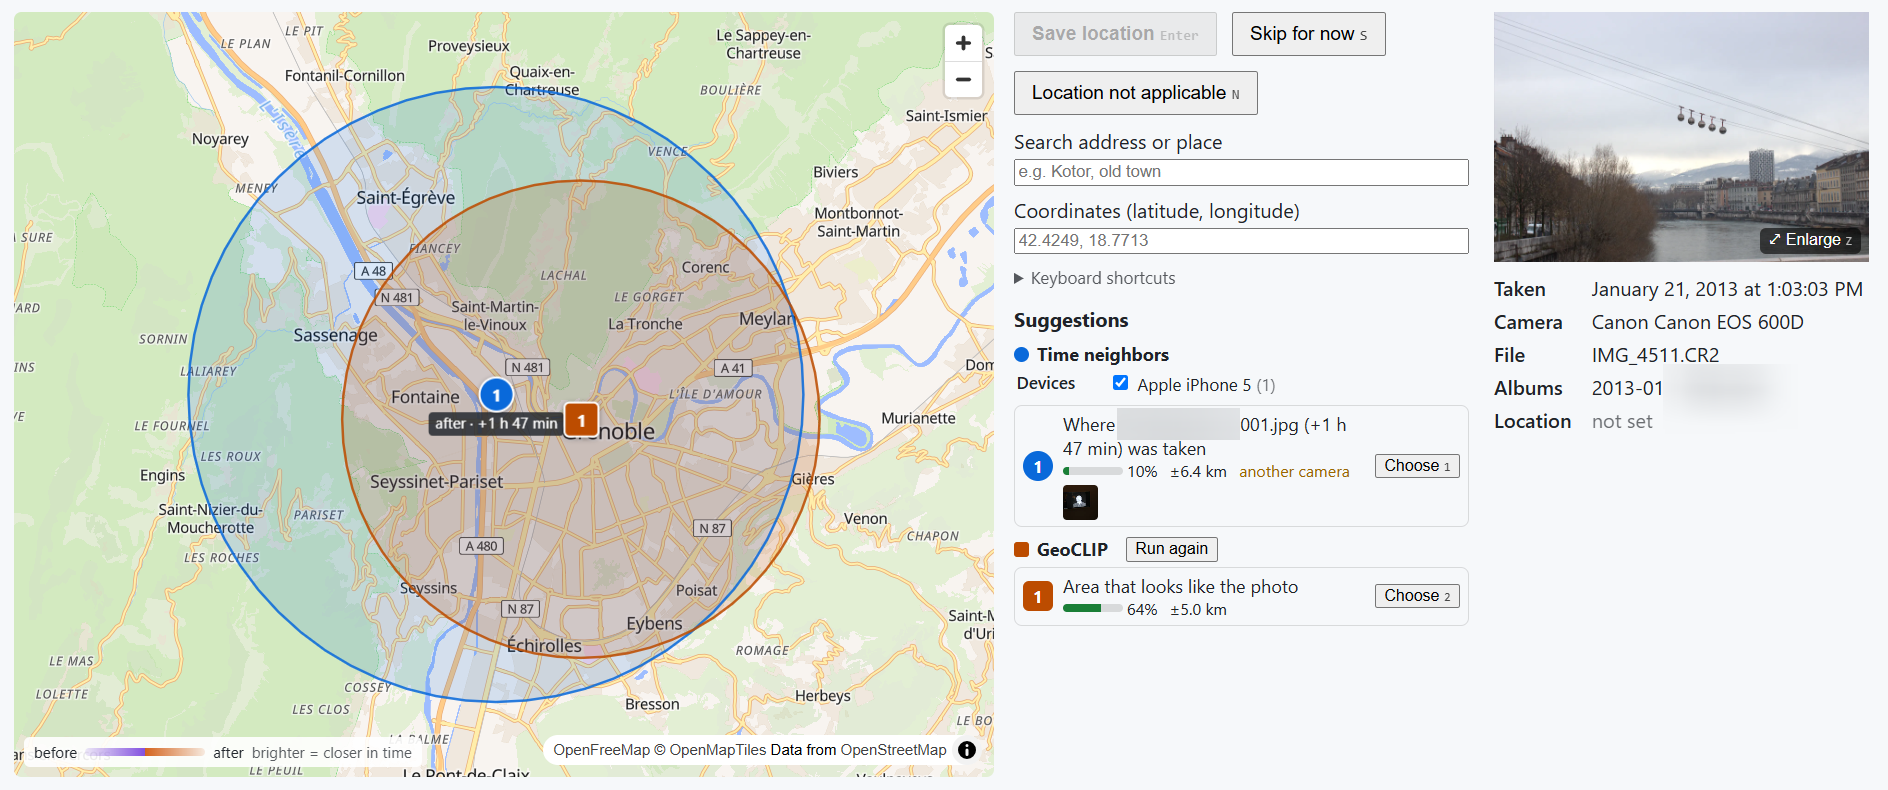
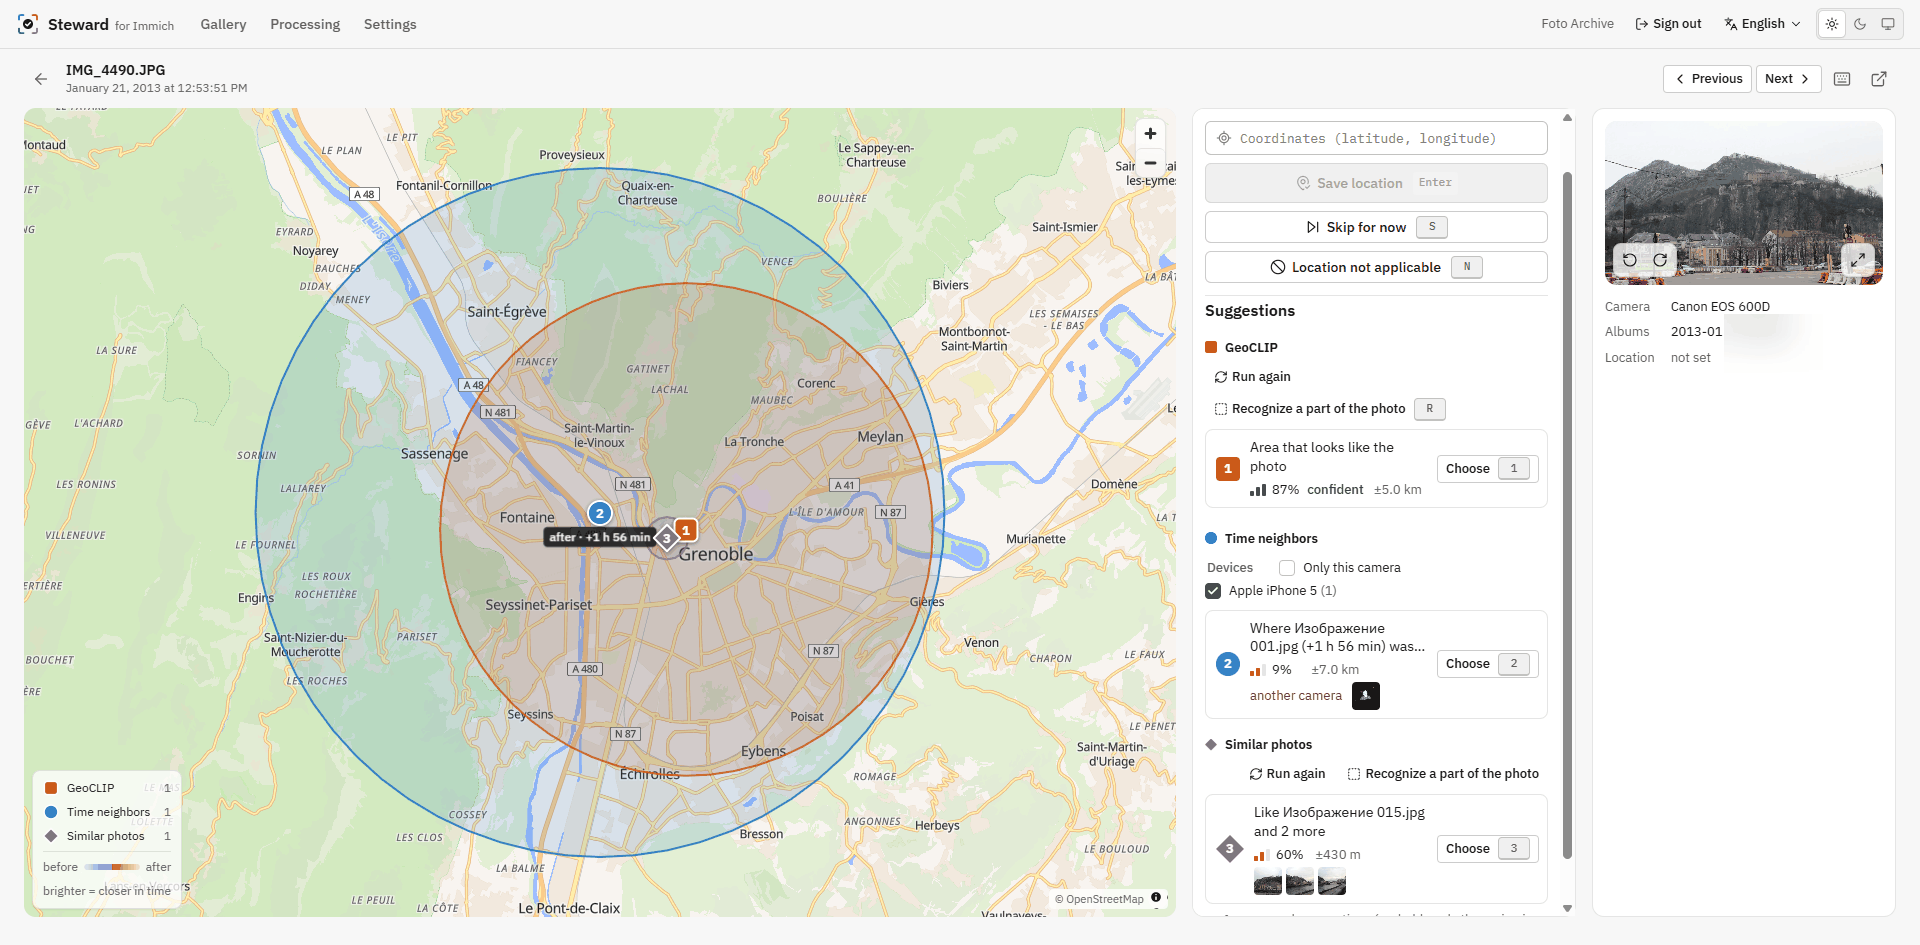
docs: screenshots of the new look
New screenshots of the photo card (light and dark theme), the gallery
and the Processing page.

diff --git a/README.md b/README.md
@@ -16,7 +16,7 @@
 </p>
 
 <p align="center">
-  <img src="docs/images/time-neighbors-route.png" alt="Photo view: the route between photos taken shortly before and after, with two suggested locations on the map">
+  <img src="docs/images/time-neighbors-route.png" alt="Photo card: the route between photos taken shortly before and after, with three suggested locations on the map and in the list">
 </p>
 
 > **Status: under active development.** An early version: reviewing photos without a location,
@@ -72,12 +72,22 @@ New modules can be added later as plugins.
 
 <table>
   <tr>
-    <td width="50%"><img src="docs/images/geoclip-confident.png" alt="GeoCLIP suggests the Bay of Kotor with 85% confidence"></td>
-    <td width="50%"><img src="docs/images/geoclip-and-time-neighbors.png" alt="Suggestions of two modules on one map: a time neighbor from another camera and a GeoCLIP area"></td>
+    <td width="50%"><img src="docs/images/geoclip-confident.png" alt="GeoCLIP suggests the Bay of Kotor with 78% confidence, in the dark theme"></td>
+    <td width="50%"><img src="docs/images/geoclip-and-time-neighbors.png" alt="Suggestions of three modules on one map: a GeoCLIP area, a time neighbor from another camera and similar photos"></td>
   </tr>
   <tr>
-    <td>GeoCLIP recognizes the place from the image alone: a confident guess for a camera without GPS.</td>
-    <td>Several modules at once: a phone photo taken two hours later and the GeoCLIP area agree on the city.</td>
+    <td>GeoCLIP recognizes the place from the image alone: a confident guess for a camera without GPS (dark theme).</td>
+    <td>Several modules at once: the GeoCLIP area, a phone photo taken two hours later and similar photos agree on the city.</td>
+  </tr>
+  <tr>
+    <td colspan="2"><img src="docs/images/gallery.png" alt="Gallery of photos without a location, filtered to confident GeoCLIP guesses, with the filter chips and the timeline"></td>
+  </tr>
+  <tr>
+    <td colspan="2">The gallery: filters as chips, a badge on every photo with a location or a confident guess, the timeline on the right.</td>
+  </tr>
+  <tr>
+    <td width="50%"><img src="docs/images/processing.png" alt="Processing page: library counts, workers and the progress of each module"></td>
+    <td>Processing: the library and its sync, the workers and what they do, and the progress and failures of each module, with a pause for the background runs.</td>
   </tr>
 </table>
 
